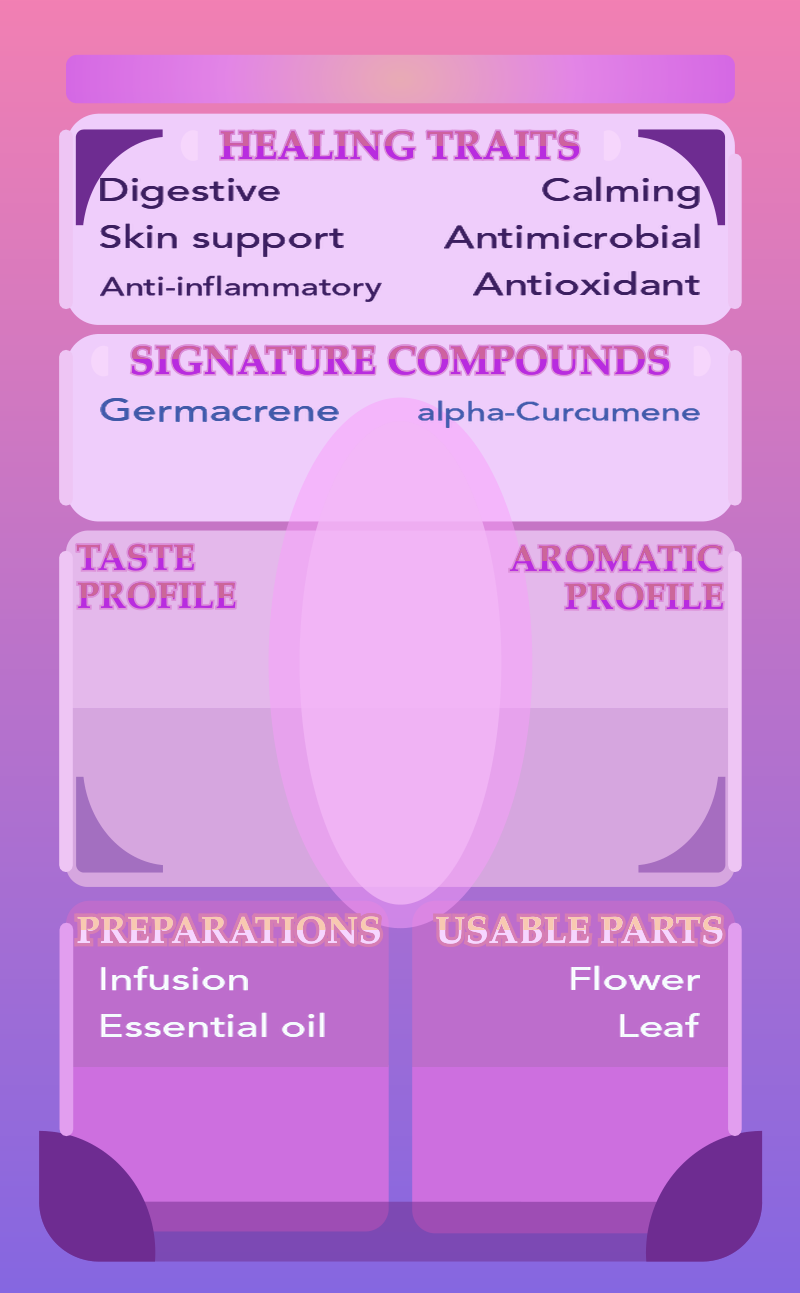
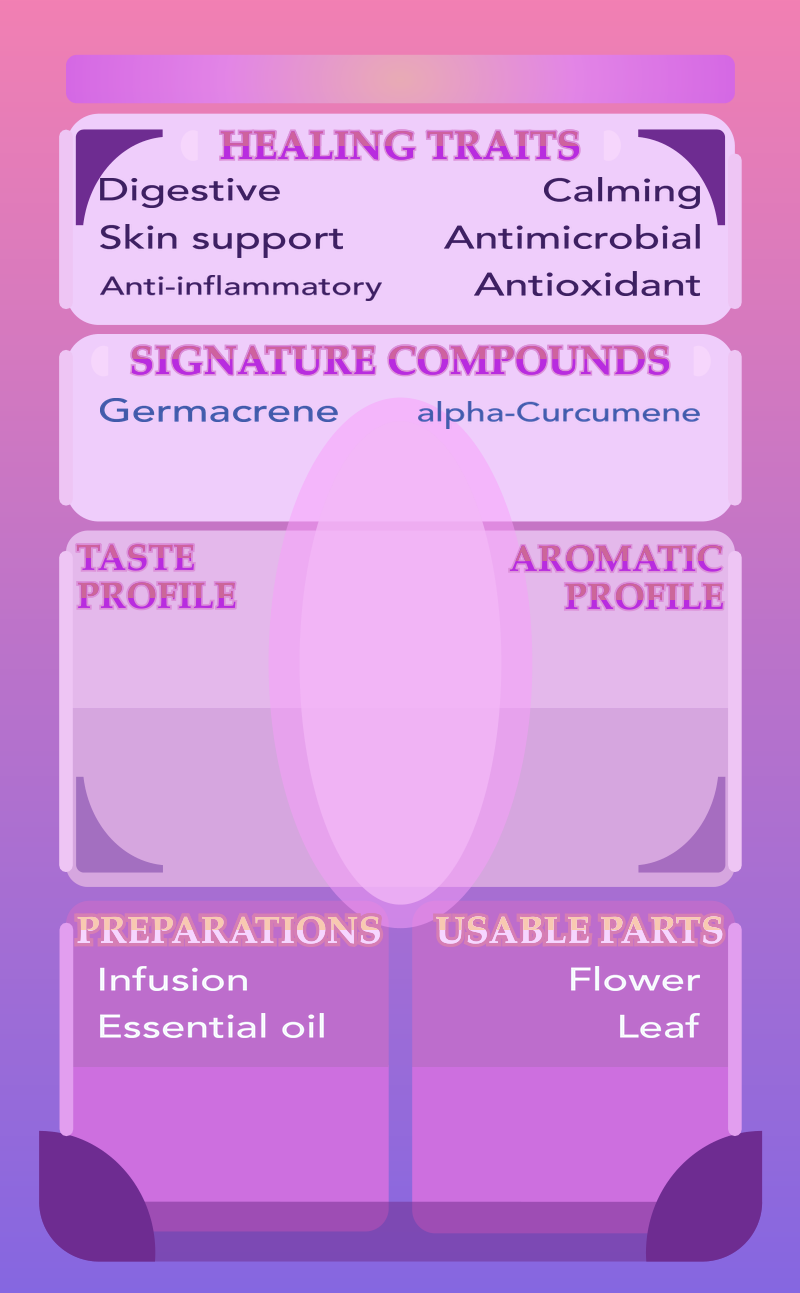
Calibrate typography from glyph pixels; fix hero segmentation
TYPOGRAPHY. Matching bounding boxes was not enough, and the cause was findable
rather than a matter of taste: cardbase.pdf sets text render mode `Tr 1` --
STROKE-ONLY text -- carries line widths of 0.25/1/1.5/3/3.3/6pt, and draws
'Encounter Rate:' three times at one identical origin in three colours. So a
deck string is a fill plus stroked copies of the same glyph, and a fill-only
render is systematically thin. Measured against the genuine Pine, the Latin
name carried 37% less ink with stems of 6.0/9.0 against a genuine 7.0/12.0.

WEIGHT is now a same-colour stroke, separate from the dark outline, and is
calibrated per style rather than shared: common 0.25, scientific 0.75. Text is
supersampled 4x because the weight needed is fractional and PIL's stroke_width
is an integer -- at 1x the only choices for the Latin name were 37% too little
ink or stems half again too wide. Supersampling also brings the edge ramp into
line: 2.00 against a genuine 1.98.

The gradient gained a HOLD. The genuine letterforms keep their cream flat across
the top of the glyph and only then fall to gold; a three-stop ramp starts
falling from the first row and is saturated a third of the way down, which was
the wrong-highlight complaint.

Control (Pine's own text through this renderer, vs the genuine card):
  common  ink 1.09  stem 13/29 vs 13/27  soft 1.25 vs 1.31  gradient dE 11
  latin   ink 0.91  stem  7/13 vs  7/12  soft 2.00 vs 1.98  gradient dE  3
[…]

diff --git a/scripts/render_generated_card.py b/scripts/render_generated_card.py
@@ -74,6 +74,26 @@ PT = 800 / 234
 # at size 47 / stretch 1.30, mean height error 1.8px.
 STROKE = {"common": 3, "scientific": 0, "encounter": 2}
 
+# WEIGHT is a SAME-COLOUR stroke that fattens the letterform without darkening it, and it
+# is a different thing from STROKE, which is the dark outline around it.
+#
+# THIS IS READ OUT OF THE PDF, NOT GUESSED. `cardbase.pdf` sets text render mode `Tr 1`
+# -- STROKE-ONLY text -- and carries line widths of 0.25/1/1.5/3/3.3/6pt, and it draws
+# 'Encounter Rate:' THREE TIMES at one identical origin in three colours (#6589a5,
+# #8ad6f5, #c7d2ec). So a deck string is a fill plus one or more stroked copies of the
+# same glyph, and a stroke centred on the outline fattens the glyph by its full width.
+#
+# A fill-only render therefore comes out systematically THIN, which is measurable rather
+# than a matter of taste: against the genuine Pine the Latin name carried 37% less ink
+# (1876 px vs 2974) with stems of 6.0/9.0 median/p90 against a genuine 7.0/12.0. The
+# common name needed none of this -- it measured 1.05 ink ratio and 13.0/13.0 stems -- so
+# the weight is per style and is NOT applied universally.
+# CALIBRATED PER STYLE AGAINST PINE'S OWN TEXT, and deliberately not shared. The common
+# name needs almost none (0.25 -> stem 13.0 against a genuine 13.0); the Latin name needs
+# three times that (0.75 -> stem 7.0/12.0 against a genuine 7.0/12.0). A single universal
+# weight would have to be wrong for one of them.
+WEIGHT = {"common": 0.25, "scientific": 0.75, "encounter": 0.0}
+
 # THE CARD STACKS EACH STRING IN THREE TONES, and the PDF names all three -- so these are
 # read, not eyedropped off a render, which would pick up whatever the JPEG did to them.
 # Dark below as an outline, the body colour, then a lighter copy riding one pixel high,
@@ -86,8 +106,8 @@ STROKE = {"common": 3, "scientific": 0, "encounter": 2}
 # it. So each slot names three stops and the fill is interpolated down the ink box.
 #   (top tone, mid tone, bottom tone, where the mid stop sits in the ink box)
 GRADIENT = {
-    "common": ("#f8f4ac", "#fee726", "#fee726", 0.45),
-    "scientific": ("#fff7be", "#fff200", "#e9d128", 0.50),
+    "common": ("#f8f4ac", "#fee726", "#fee726", 0.22, 0.55),
+    "scientific": ("#fcf1ae", "#e9d838", "#e9d838", 0.28, 0.30),
     "encounter": ("#fac6cc", "#d26e91", "#8e3a57", 0.45),      # overridden per tier
 }
 
@@ -96,11 +116,20 @@ GRADIENT = {
 # tight text band on all 45 shipped fronts separates them: Common is a dark teal under a
 # pale blue highlight, Uncommon cream over mauve, Rare the familiar pink, Epic blue under
 # lavender. All four sit at x 428, which is the slot already measured.
+# (top tone, mid tone, bottom tone, OUTLINE, hold)
+#
+# THE TIER COLOUR IS THE OUTLINE, NOT THE BODY, and reading it the other way round is why
+# a generated "Common" came out a solid dark teal beside a genuine one that reads pale.
+# Eroding the glyph mask separates the two populations: the INTERIOR of a genuine Rare is
+# #ffc3d1 (pale pink) and only its EDGE is #c865b2, Uncommon is cream inside and mauve at
+# the edge, and Epic inverts the usual relationship entirely -- a blue body inside a LIGHT
+# lavender outline. Sampling the whole glyph at once blends the two and reports the
+# darker one, which is the mistake the first version made.
 RARITY_TONES = {
-    "Common":   ("#d8e3f6", "#034c65", "#01323f", "#01323f"),
-    "Uncommon": ("#f9f2ae", "#c186c1", "#7a4a7d", "#7a4a7d"),
-    "Rare":     ("#fac6cc", "#d26e91", "#8e3a57", "#8e3a57"),
-    "Epic":     ("#cbb6ff", "#0393d7", "#05506f", "#05506f"),
+    "Common":   ("#f0ecf8", "#dfe7f0", "#9db6c6", 0.35, 0.55, "#0d446c"),
+    "Uncommon": ("#ffeac9", "#f8f6b0", "#e8d79a", 0.30, 0.45, "#c186c1"),
+    "Rare":     ("#ffd9e2", "#ffc3d1", "#f0a8bd", 0.30, 0.45, "#c865b2"),
+    "Epic":     ("#9bdcf8", "#2aa6e0", "#0393d7", 0.35, 0.45, "#cbb6ff"),
 }
 
 # HORIZONTAL STRETCH, and this is the single correction behind four of the complaints.
@@ -145,7 +174,7 @@ RARITY_TONES = {
 # landed near 1.41. The 45-card fit refutes it: Futura is naturally wide and Palatino
 # narrow, so the factor is a property of the FACE, not of the layout. Measurement over
 # theory -- the theory was two datapoints and a coincidence.
-STRETCH = {"common": 1.00, "scientific": 1.30, "encounter": 0.924}
+STRETCH = {"common": 1.00, "scientific": 1.15, "encounter": 0.924}
 
 TEXT_SLOTS = {
     # Sizes are HEIGHT-CALIBRATED: the size whose ink height equals the genuine glyph box
@@ -155,7 +184,7 @@ TEXT_SLOTS = {
     "common":     ("common",     68,  73.2,  125.0, "#fee726", "#696028"),
     "number_hash": ("number",    41, 630.0,  101.1, "#efc5f4", None),
     "number":     ("number",     58, 659.1,  118.2, "#efc5f4", None),
-    "scientific": ("scientific", 47,  75.3,  741.7, "#fff200", "#e9d128"),
+    "scientific": ("scientific", 53,  75.3,  741.7, "#fff200", "#e9d128"),
     "encounter":  ("encounter",  50, 429.2, 1049.9, "#d26e91", "#8e3a57"),
 }
 
@@ -301,13 +330,24 @@ def gradient_fill(size: tuple[int, int], stops: tuple[str, str, str, float]) -> 
     deeper tone at the foot. Interpolation is linear between stops and the ramp is built
     at the ink box's own height, so it does not drift when a name is longer or shorter.
     """
-    top, mid, bottom, at = stops
+    top, mid, bottom, at = stops[:4]
+    hold = stops[4] if len(stops) > 4 else 0.0
     top_rgb, mid_rgb, bottom_rgb = rgb(top), rgb(mid), rgb(bottom)
     h = max(1, size[1])
     ramp = Image.new("RGB", (1, h))
     px = ramp.load()
     for y in range(h):
         t = y / max(1, h - 1)
+        # HOLD: the genuine letterforms keep their cream FLAT across the top of the glyph
+        # and only then fall to gold -- measured on Pine, where the Latin name reads
+        # #fcf1ae / #fcf2af / #f3e676 / #e9d838 / #e9d637 / #e9d939 down six bands. A
+        # plain three-stop ramp starts falling from the very first row and is already
+        # saturated a third of the way down, which is the "highlight treatment is wrong"
+        # complaint. Everything below `hold` is the top tone unchanged.
+        if hold and t <= hold:
+            px[0, y] = top_rgb
+            continue
+        t = (t - hold) / max(1e-6, 1.0 - hold)
         if t <= at:
             a, b, f = top_rgb, mid_rgb, (t / at if at else 1.0)
         else:
@@ -319,7 +359,7 @@ def gradient_fill(size: tuple[int, int], stops: tuple[str, str, str, float]) -> 
 def text_layer(font: ImageFont.FreeTypeFont, text: str, fill: str,
                outline: str | None, width: int,
                stops: tuple[str, str, str, float] | None,
-               stretch: float) -> tuple[Image.Image, float, float]:
+               stretch: float, weight: float = 0.0) -> tuple[Image.Image, float, float]:
     """Compose one string as outline + gradient interior, then stretch it horizontally.
 
     THE WHOLE STACK IS COMPOSED ON ONE LAYER AND SCALED TOGETHER. Stepping the font size
@@ -329,13 +369,28 @@ def text_layer(font: ImageFont.FreeTypeFont, text: str, fill: str,
     Returns the cropped layer and the baseline's position inside it, so the caller can
     pivot the placement on the baseline rather than on a corner.
     """
-    pad = width * 2 + 16
-    box = (int(font.size * (len(text) + 2) * 2) + pad * 2, int(font.size * 3) + pad * 2)
-    baseline = (pad, pad + font.size * 1.5)
+    # SUPERSAMPLED, because the weight this needs is FRACTIONAL and PIL's stroke_width is
+    # an integer. The deck's own line widths are fractional points (0.25, 1.5, 3.3), and
+    # at 1x the only choices for the Latin name were 0 -> 37% too little ink and 1 -> stems
+    # half again too wide. Rendering at SS and scaling down also makes the edge ramp match:
+    # the genuine glyphs measure 1.98 px of softness, which a 1x bilevel raster cannot
+    # produce on its own.
+    SS = 4
+    big = ImageFont.truetype(font.path, round(font.size * SS))
+    w_px = int(round(weight * SS))
+    o_px = int(round(width * SS))
+    pad = (o_px + w_px) * 2 + 16 * SS
+    box = (int(big.size * (len(text) + 2) * 2) + pad * 2, int(big.size * 3) + pad * 2)
+    baseline = (pad, pad + big.size * 1.5)
+    font, width, weight = big, o_px, w_px
 
     # The glyph silhouette WITHOUT its outline -- this is what the gradient is poured into.
+    # The body mask carries the WEIGHT stroke, so the gradient is poured into the
+    # FATTENED letterform rather than leaving a same-colour rim outside the gradient.
     body_mask = Image.new("L", box, 0)
-    ImageDraw.Draw(body_mask).text(baseline, text, font=font, fill=255, anchor="ls")
+    ImageDraw.Draw(body_mask).text(baseline, text, font=font, fill=255, anchor="ls",
+                                   stroke_width=weight,
+                                   stroke_fill=255 if weight else None)
 
     layer = Image.new("RGBA", box, (0, 0, 0, 0))
     pen = ImageDraw.Draw(layer)
@@ -343,7 +398,8 @@ def text_layer(font: ImageFont.FreeTypeFont, text: str, fill: str,
     # shadow. The PDF reports every layer of a string on ONE baseline.
     pen.text(baseline, text, font=font, anchor="ls",
              fill=rgb(outline) if outline else rgb(fill),
-             stroke_width=width, stroke_fill=rgb(outline) if outline else None)
+             stroke_width=width + weight,
+             stroke_fill=rgb(outline) if outline else rgb(fill))
     if stops:
         ink = body_mask.getbbox()
         if ink:
@@ -360,10 +416,12 @@ def text_layer(font: ImageFont.FreeTypeFont, text: str, fill: str,
     layer = layer.crop(crop)
     bx, by = baseline[0] - crop[0], baseline[1] - crop[1]
 
-    if abs(stretch - 1.0) > 1e-3:
-        layer = layer.resize((max(1, round(layer.width * stretch)), layer.height),
-                             Image.LANCZOS)
-        bx *= stretch
+    # Down from the supersample and apply the horizontal stretch in the SAME resize, so
+    # the glyph is resampled once rather than twice.
+    layer = layer.resize((max(1, round(layer.width * stretch / SS)),
+                          max(1, round(layer.height / SS))), Image.LANCZOS)
+    bx = bx * stretch / SS
+    by = by / SS
     return layer, bx, by
 
 
@@ -396,10 +454,10 @@ def draw_slot(img: Image.Image, slot: str, text: str, blocked: list | None = Non
     if slot == "encounter":
         tier = RARITY_TONES.get(text.strip().title())
         if tier:
-            stops = (tier[0], tier[1], tier[2], 0.45)
-            fill, shadow = tier[1], tier[3]
+            stops = tier[:5]
+            fill, shadow = tier[1], tier[5]
     layer, bx, by = text_layer(font, text, fill, shadow, STROKE.get(slot, 0),
-                               stops, STRETCH.get(slot, 1.0))
+                               stops, STRETCH.get(slot, 1.0), WEIGHT.get(slot, 0))
 
     # Only now, after the stretch, is the width the one that has to fit the slot.
     limit = SLOT_LIMITS.get(slot)

diff --git a/scripts/card_art.py b/scripts/card_art.py
@@ -67,6 +67,57 @@ def largest_blob(alpha: np.ndarray) -> np.ndarray:
     return np.where(labels == biggest, alpha, 0).astype(np.uint8)
 
 
+def plant_seed(bgr: np.ndarray) -> np.ndarray:
+    """A GrabCut seed mask built from PLANT COLOUR, not from a rectangle.
+
+    THE RECTANGLE PRIOR IS WHY THE CUTOUTS FAILED. `GC_INIT_WITH_RECT` assumes the subject
+    fills a centred box and everything outside it is background -- which is false for a
+    field photograph. On the chamomile set it kept a fist-sized patch of gravel on one
+    photo and the PHOTOGRAPHER'S FINGER on another, and the finger survived because it is
+    central, large and nothing in the model said it was not the plant.
+
+    Colour does say so. A chamomile is white ray florets, a yellow disc and green foliage;
+    skin is none of those, and nor is limestone. So the seed marks those three families as
+    probable foreground, marks confidently-not-plant pixels as probable background, and
+    lets GrabCut refine the boundary from there instead of inventing one.
+
+    Deliberately SEED, not a final mask: a hard colour threshold alone cuts shadowed petals
+    and halates against a bright sky. GrabCut is good at the edge once it is told roughly
+    where the subject is -- that was always the missing half.
+    """
+    hsv = cv2.cvtColor(bgr, cv2.COLOR_BGR2HSV)
+    H, S, V = hsv[:, :, 0].astype(int), hsv[:, :, 1].astype(int), hsv[:, :, 2].astype(int)
+    white = (V > 165) & (S < 60)                       # ray florets
+    yellow = (H >= 18) & (H <= 38) & (S > 90) & (V > 110)   # the disc
+    green = (H >= 35) & (H <= 90) & (S > 55) & (V > 45)     # foliage and stems
+    plant = white | yellow | green
+    # Skin is the specific failure this exists to stop: warm, mid-saturation, never green.
+    skin = (((H <= 25) | (H >= 170)) & (S > 35) & (S < 165) & (V > 90)) & ~plant
+    plant = cv2.morphologyEx(plant.astype(np.uint8), cv2.MORPH_CLOSE, np.ones((9, 9), np.uint8))
+    plant = largest_blob(plant * 255) > 0
+    # Grow the seed a little: the true edge lies just outside a strict colour match.
+    near = cv2.dilate(plant.astype(np.uint8), np.ones((25, 25), np.uint8)) > 0
+
+    mask = np.full(bgr.shape[:2], cv2.GC_PR_BGD, np.uint8)
+    mask[near] = cv2.GC_PR_FGD
+    mask[plant] = cv2.GC_FGD
+    mask[skin] = cv2.GC_BGD
+    mask[~near] = cv2.GC_BGD
+    return mask
+
+
+def grabcut_seeded(bgr: np.ndarray, iterations: int) -> np.ndarray:
+    mask = plant_seed(bgr)
+    if (mask == cv2.GC_FGD).sum() < 200:          # no plant colour found; nothing to seed
+        return None
+    bgd, fgd = np.zeros((1, 65), np.float64), np.zeros((1, 65), np.float64)
+    cv2.grabCut(bgr, mask, None, bgd, fgd, iterations, cv2.GC_INIT_WITH_MASK)
+    alpha = np.where((mask == cv2.GC_FGD) | (mask == cv2.GC_PR_FGD), 255, 0).astype(np.uint8)
+    alpha = cv2.morphologyEx(alpha, cv2.MORPH_CLOSE, np.ones((7, 7), np.uint8))
+    alpha = cv2.morphologyEx(alpha, cv2.MORPH_OPEN, np.ones((3, 3), np.uint8))
+    return cv2.GaussianBlur(alpha, (3, 3), 0)
+
+
 def cutout(path: pathlib.Path, margin: float, iterations: int) -> Image.Image:
     bgr = cv2.imread(str(path))
     if bgr is None:
@@ -76,7 +127,11 @@ def cutout(path: pathlib.Path, margin: float, iterations: int) -> Image.Image:
     scale = 1200 / max(h, w)
     if scale < 1:
         bgr = cv2.resize(bgr, (int(w * scale), int(h * scale)), interpolation=cv2.INTER_AREA)
-    alpha = largest_blob(grabcut(bgr, margin, iterations))
+    alpha = grabcut_seeded(bgr, iterations)
+    if alpha is None:                  # fall back to the rectangle prior, visibly
+        print(f"   {path.name}: no plant colour found, falling back to the rectangle prior")
+        alpha = grabcut(bgr, margin, iterations)
+    alpha = largest_blob(alpha)
     rgb = cv2.cvtColor(bgr, cv2.COLOR_BGR2RGB)
     out = np.dstack([rgb, alpha])
     im = Image.fromarray(out, "RGBA")
